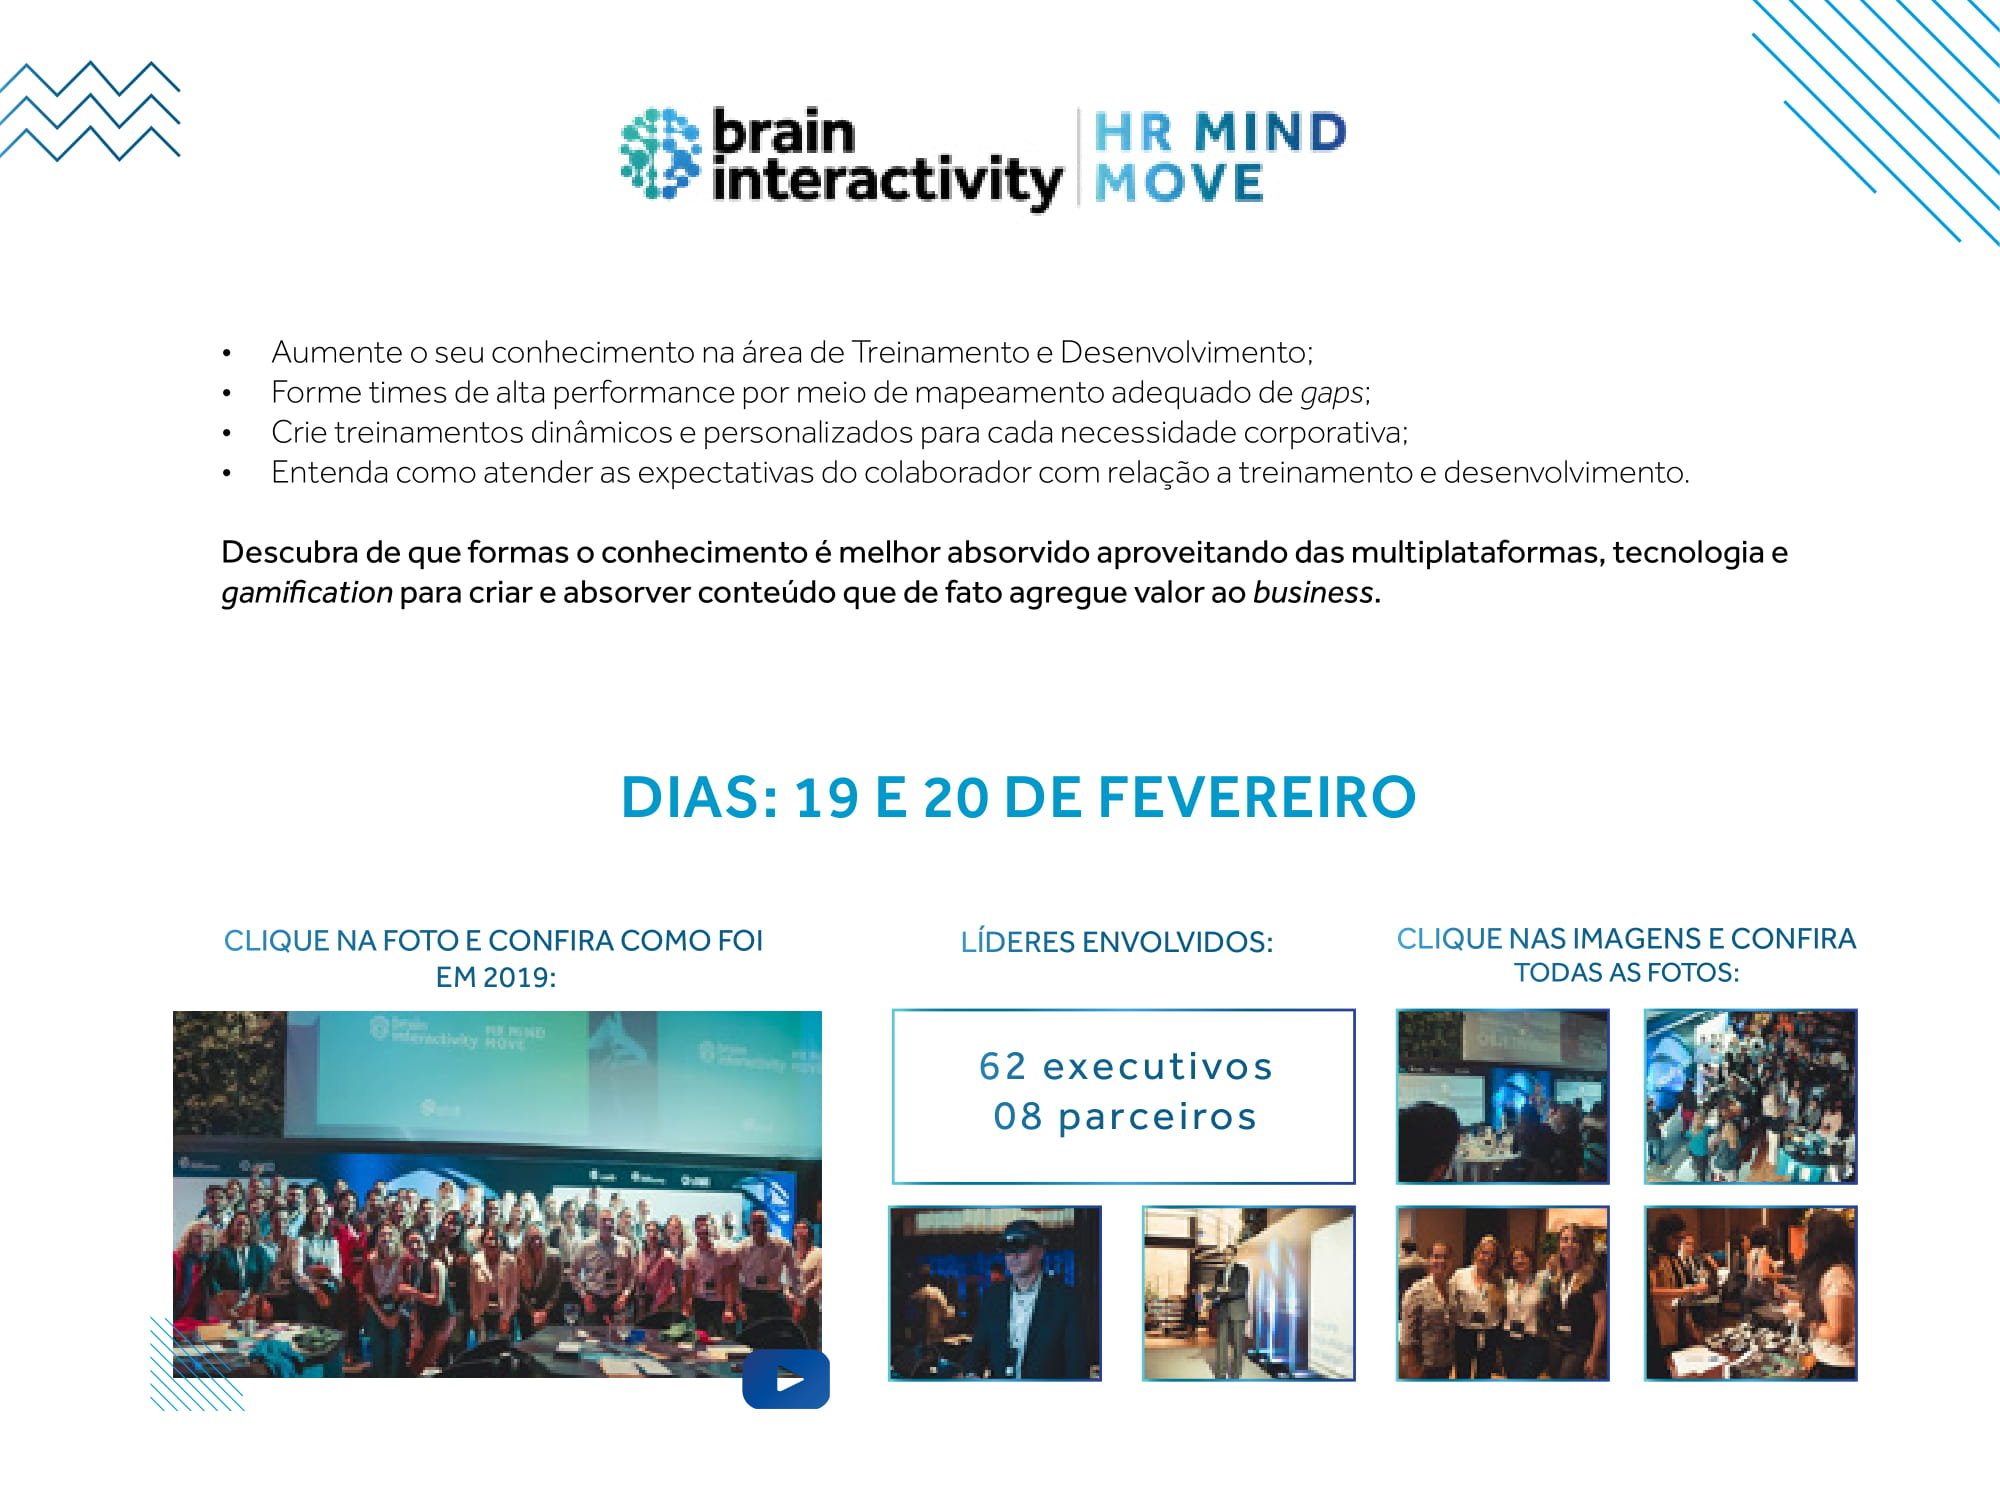
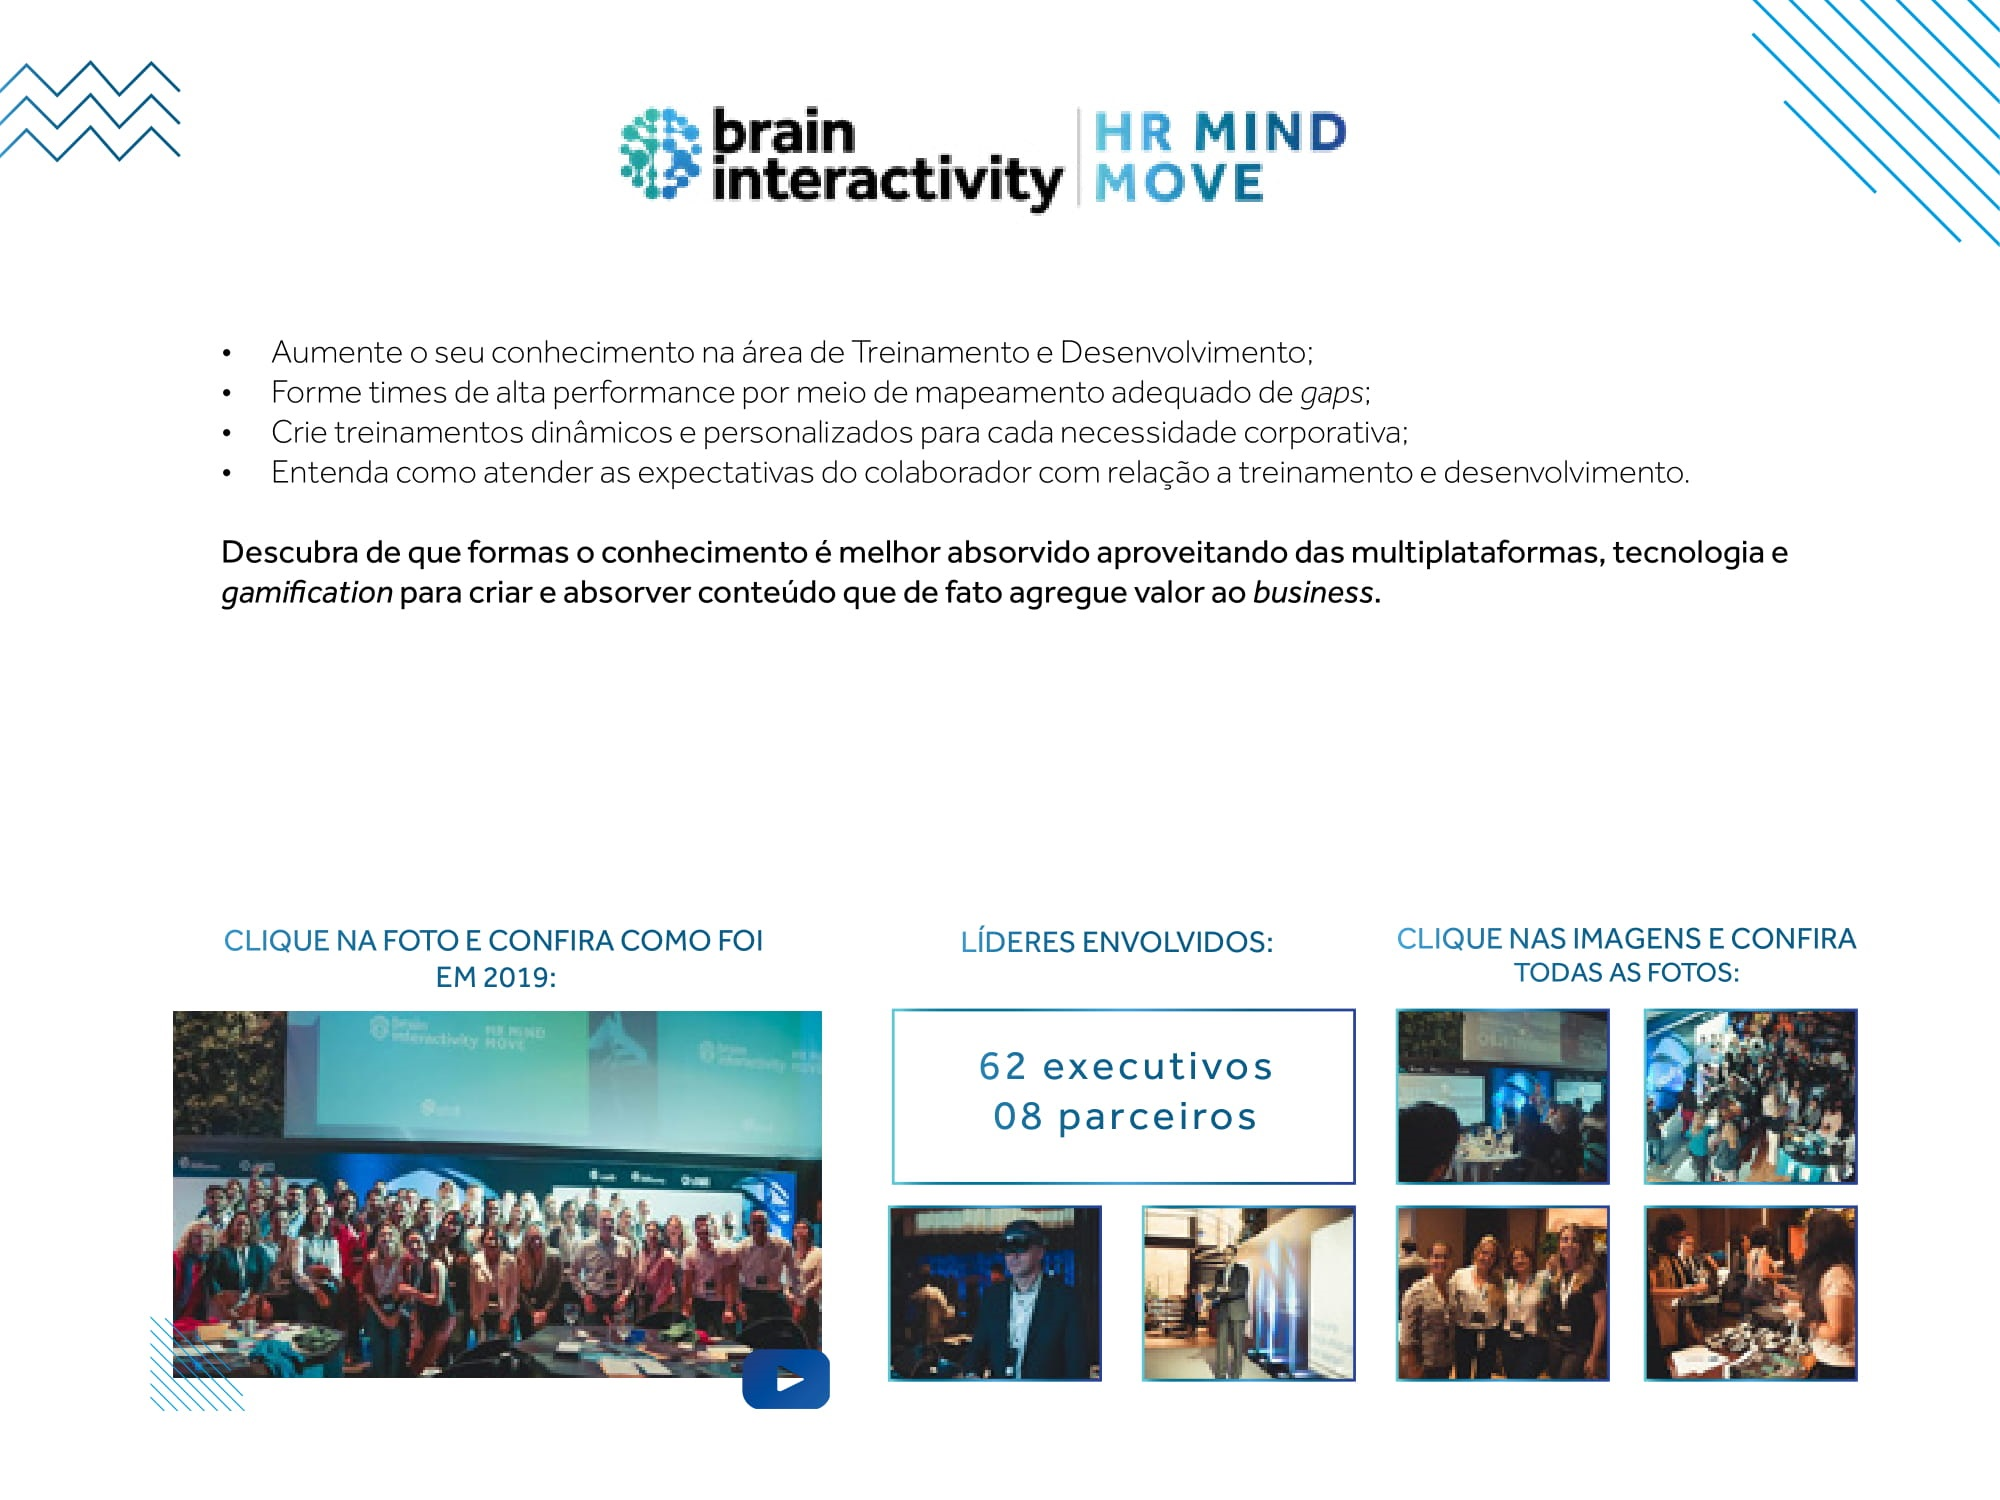
Imagens de projeto

Changed region(s): [[0.31, 0.4907, 0.713, 0.552]]

diff --git a/Salesplank/Salesplank/Controls/proposalUserControl.cs b/Salesplank/Salesplank/Controls/proposalUserControl.cs
@@ -13,7 +13,6 @@ using Microsoft.Office.Interop.PowerPoint;
 using Microsoft.Office.Core;
 using Salesplank.Inputs;
 using Application = Microsoft.Office.Interop.PowerPoint.Application;
-using Salesplank.Helpers;
 
 namespace Salesplank.Controls
 {
@@ -30,6 +29,8 @@ namespace Salesplank.Controls
         private static string _oQueQueremosProporcionarPath = "o_que_queremos_proporcionar.jpg";
         private static string _modeloBrainPath = "modelo_brain.jpg";
         private static string _modeloSabPath = "modelo_sab.jpg";
+        private static string _contrapartidasAdicionaisPath = "contrapartidas_adicionais.jpg";
+        private static string _desktopPath = Environment.GetFolderPath(Environment.SpecialFolder.Desktop);
         private static string _workingDir = AppDomain.CurrentDomain.BaseDirectory;
         public ProposalUserControl()
         {
@@ -73,11 +74,6 @@ namespace Salesplank.Controls
         }
         private void btnGenerate_Click(object sender, EventArgs e)
         {
-            if (!IsValid())
-            {
-                MessageBox.Show(@"Preencha os dados corretamente!", @"Erro", MessageBoxButtons.OK, MessageBoxIcon.Error);
-                return;
-            }
             try
             {
                 var formDataInput = new FormDataInput(txtSponsorName.Text, _logoPath, cbNumSponsors.Text, txtContact.Text, ckbGenerateEmail.Checked);
@@ -88,7 +84,6 @@ namespace Salesplank.Controls
             catch (Exception exception)
             {
                 Console.WriteLine(exception.Message);
-                throw;
             }
         }
         // Meus métodos
@@ -117,14 +112,13 @@ namespace Salesplank.Controls
         private void PopulateProjectList()
         {
             //var streamReader = new StreamReader(@"C:\Users\Victor\source\repos\VictorLlanir\salesplank\Salesplank\Salesplank\Data\Projects.json", Encoding.UTF8);
-            var streamReader = new StreamReader(@"C:\Users\VictorTrevisan\source\repos\VictorLlanir\salesplank\Salesplank\Salesplank\Data\Projects.json", Encoding.UTF8);
+            var streamReader = new StreamReader($"{_workingDir}/Data/Projects.json", Encoding.UTF8);
             var json = streamReader.ReadToEnd();
             _projectList = JsonConvert.DeserializeObject<List<Project>>(json);
         }
         private static void PopulateActionList()
         {
-            var streamReader = new StreamReader(@"C:\Users\VictorTrevisan\source\repos\VictorLlanir\salesplank\Salesplank\Salesplank\Data\Actions.json", Encoding.UTF8);
-            //var streamReader = new StreamReader(@"C:\Users\Victor\source\repos\VictorLlanir\salesplank\Salesplank\Salesplank\Data\Actions.json", Encoding.UTF8);
+            var streamReader = new StreamReader($"{_workingDir}/Data/Actions.json", Encoding.UTF8);
             var json = streamReader.ReadToEnd();
             _actionList = JsonConvert.DeserializeObject<List<Action>>(json);
         }
@@ -134,10 +128,6 @@ namespace Salesplank.Controls
             clbActionsBranding.Items.Clear();
             clbActionsContent.Items.Clear();
             clbActionsRelationship.Items.Clear();
-        }
-        private static bool IsValid()
-        {
-            return true;
         }
         private static List<Project> GetProjectList(IEnumerable checkedProjects)
         {
@@ -173,8 +163,8 @@ namespace Salesplank.Controls
                 contactName.Text = $"A/C: {formDataInput.Contact}";
                 contactName.Font.Size = 24;
 
-                firstSlide.Shapes[2].TextFrame.TextRange.Font.Size = 14;
-                firstSlide.Shapes[2].TextFrame.TextRange.ParagraphFormat.SpaceWithin = (float)0.4;
+                firstSlide.Shapes[2].TextFrame.TextRange.Font.Size = 17;
+                firstSlide.Shapes[2].TextFrame.TextRange.ParagraphFormat.SpaceWithin = (float)0.8;
                 var first = 1;
                 foreach (var project in projects)
                 {
@@ -187,13 +177,15 @@ namespace Salesplank.Controls
                 if (_logoPath != null)
                 {
                     var sponsorLogo = firstSlide.Shapes.AddPicture(_logoPath, MsoTriState.msoTrue, MsoTriState.msoTrue, 80, 80);
+                    sponsorLogo.Width = 300;
                     sponsorLogo.Left = 40;
-                    sponsorLogo.Top = 190;
+                    sponsorLogo.Top = 400;
                 }
 
 
                 var ebdiLogo = firstSlide.Shapes.AddPicture($"{_workingDir}/Images/{_ebdiLogoPath}", MsoTriState.msoTrue, MsoTriState.msoTrue, 180, 220);
-                ebdiLogo.Left = 480;
+                ebdiLogo.Width = 300;
+                ebdiLogo.Left = 550;
                 ebdiLogo.Top = 400;
 
                 AddSlideWithImage(pptPresentation, slides, 2, textLayout, $"{_workingDir}/Images/{_oQueNaoSomosPath}");
@@ -214,7 +206,7 @@ namespace Salesplank.Controls
 
                 foreach (var project in projects)
                 {
-                    AddSlideWithImage(pptPresentation, slides, pageNum, textLayout, $"{_workingDir}/Images/{project.Image}");
+                    AddSlideWithImage(pptPresentation, slides, pageNum, textLayout, $"{_workingDir}/Images/{project.Image}", project.Date);
                     pageNum++;
                 }
                 foreach (var action in actions)
@@ -222,13 +214,14 @@ namespace Salesplank.Controls
                     AddSlideWithImage(pptPresentation, slides, pageNum, textLayout, $"{_workingDir}/Images/{action.Image}");
                     pageNum++;
                 }
-
-                pptPresentation.SaveAs($@"C:\Users\VictorTrevisan\Desktop\Proposta - {formDataInput.SponsorName} - {DateTime.Now.Day}-{DateTime.Now.Month}-{DateTime.Now.Year}.pptx", PpSaveAsFileType.ppSaveAsDefault, MsoTriState.msoTrue);
+                AddSlideWithImage(pptPresentation, slides, pageNum, textLayout, $"{_workingDir}/Images/{_contrapartidasAdicionaisPath}", "", formDataInput);
+                pageNum++;
+                pptPresentation.SaveAs($"{_desktopPath}/Propostas/Proposta - {formDataInput.SponsorName} - {DateTime.Now.Day}-{DateTime.Now.Month}-{DateTime.Now.Year}.pptx", PpSaveAsFileType.ppSaveAsDefault, MsoTriState.msoTrue);
                 //pptPresentation.Close();
                 //pptApplication.Quit();
             }
         }
-        private static void AddSlideWithImage(Presentation pptPresentation, Slides slides, int index, CustomLayout layout, string path)
+        private static void AddSlideWithImage(Presentation pptPresentation, Slides slides, int index, CustomLayout layout, string path, string projectDate = "", FormDataInput formDataInput = null)
         {
             var slide = slides.AddSlide(index, layout);
             slide.Shapes[1].Visible = MsoTriState.msoFalse;
@@ -242,6 +235,28 @@ namespace Salesplank.Controls
             bgSlide.Top = 0;
             bgSlide.Width = pptPresentation.PageSetup.SlideWidth;
             bgSlide.Height = pptPresentation.PageSetup.SlideHeight;
+            if (projectDate != "")
+            {
+                var dateText = slide.Shapes.AddTextbox(MsoTextOrientation.msoTextOrientationHorizontal, 310, 260, 600, 100);
+                dateText.TextFrame.TextRange.Text = $"DIAS: {projectDate.ToUpper()}";
+                dateText.TextFrame.TextRange.Font.Size = 26;
+                dateText.TextFrame.TextRange.Font.Name = "Effra";
+                dateText.TextFrame.TextRange.Font.Bold = MsoTriState.msoTrue;
+            }
+            if (path.Contains(_contrapartidasAdicionaisPath))
+            {
+                var numSponsors = slide.Shapes.AddTextbox(MsoTextOrientation.msoTextOrientationHorizontal, 163, 115, 150, 80);
+                numSponsors.TextFrame.TextRange.Text = formDataInput.NumSponsors;
+                numSponsors.TextFrame.TextRange.Font.Size = 16;
+                numSponsors.TextFrame.TextRange.Font.Name = "Effra";
+                numSponsors.TextFrame.TextRange.Font.Bold = MsoTriState.msoTrue;
+
+                var valueInvestment = slide.Shapes.AddTextbox(MsoTextOrientation.msoTextOrientationHorizontal, 420, 450, 250, 100);
+                valueInvestment.TextFrame.TextRange.Text = "VALOR";
+                valueInvestment.TextFrame.TextRange.Font.Size = 22;
+                valueInvestment.TextFrame.TextRange.Font.Name = "Effra";
+                valueInvestment.TextFrame.TextRange.Font.Bold = MsoTriState.msoTrue;
+            }
         }
     }
 }
